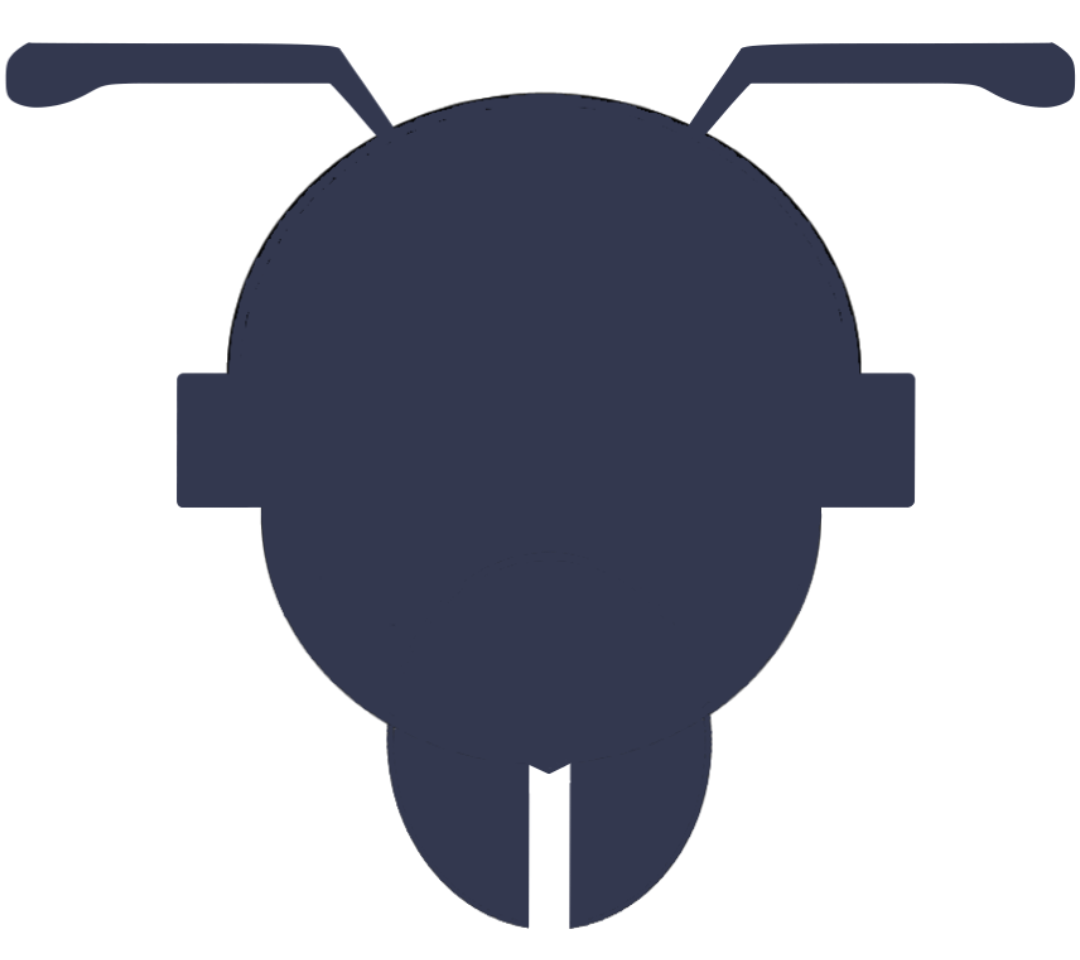
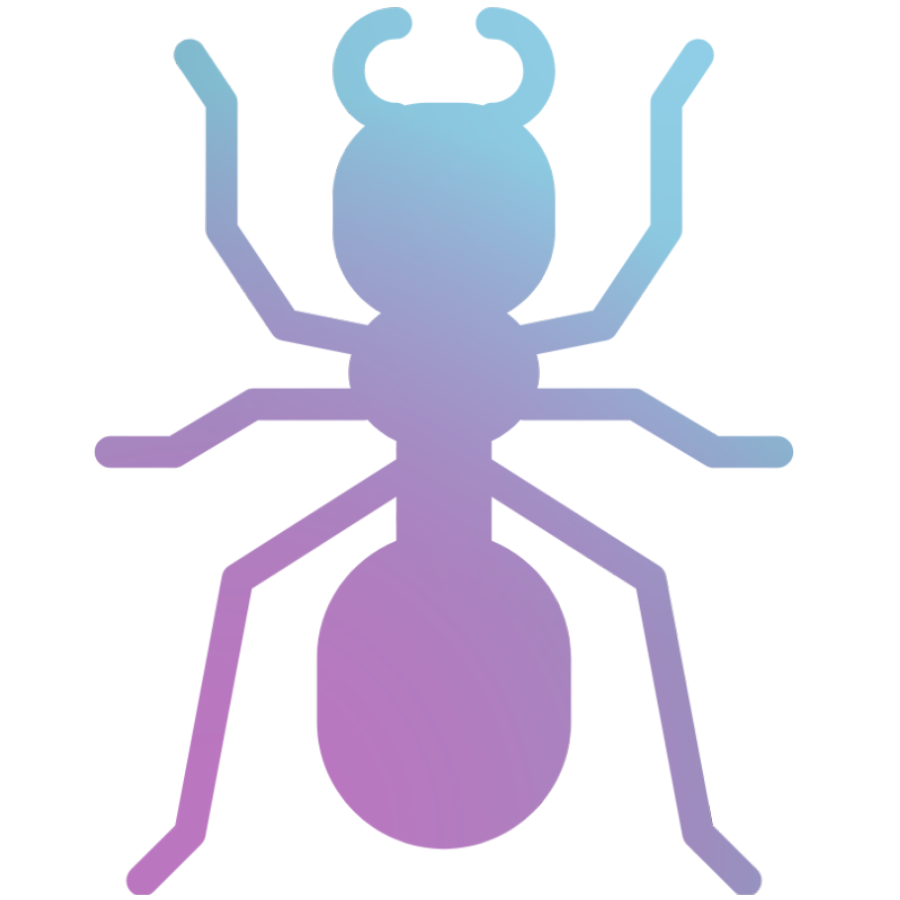
11-28-2023
Login Art Update
Signup BG Update
Icon Update

diff --git a/includes/login.php b/includes/login.php
@@ -1,4 +1,4 @@
-<body class="bg-primary" style="background-color: #306c76;">
+<body style="background-color: #302d45;">
     <div class="container py-5">
         <div class="row d-flex justify-content-center">
             <div class="col col-xl-8">
@@ -14,7 +14,7 @@
                                     <h6 class="fw-normal pb-2 text-center font" style="letter-spacing: 1px;">Sign into your account</h6>
                                     <?php $login->Login(); ?>
                                     <div class="d-flex justify-content-center">
-                                        <div class="card bg-primary rounded-4">
+                                        <div class="card-container">
                                             <div class="card-body">
                                                 <div class="mb-4 font">
                                                     <input type="text" name="username" id="username" placeholder="Enter Username" class="form-control rounded-3" required />
@@ -23,6 +23,7 @@
                                                 <div class="mb-4 font">
                                                     <input type="password" name="password" id="password" placeholder="Enter Password" class="form-control rounded-3" required />
                                                 </div>
+                                                
                                                 <div class="mb-4 font">
                                                     <select class="form-control form-control-sm rounded-3" id="branch" name="branch" required>
                                                         <option value="0" class="text-muted">Select Branch</option>
@@ -31,13 +32,13 @@
                                                         <option value="3">Branch 3</option>
                                                     </select>
                                                 </div>
+
                                                 <div class="pt-1 mb-3 font col-lg-9 d-flex justify-content-center mx-auto">
                                                     <button class="btn btn-light w-100 shadow rounded-5" name="submit" type="submit">Login</button>
                                                 </div>
                                             </div>
                                         </div>
                                     </div>
-
                                     <p class="text-white text-center pb-5" style="font-size: 14px;">Don't have an account? <a href="includes/signup.php" class="text-white">Register here</a></p>
 
                                 </form>

diff --git a/index.php b/index.php
@@ -16,12 +16,18 @@
     <meta http-equiv="X-UA-Compatible" content="IE=edge">
     <meta name="viewport" content="width=device-width, initial-scale=1.0">
     <title>Login | Langgam Trading</title>
-    <link rel="icon" href="assets/icon.png" type="image/png">
+    <link rel="icon" href="/assets/icon.png" type="image/png">
 
     <style>
     .card-bg {
-        background: url('assets/BG1.png') no-repeat center center;
+        background: url('assets/newbg.png') no-repeat center center;
         background-size: cover;
+    }
+
+    .card-container {
+        background-color: rgba(33, 31, 48, 0.5); /* Set the background color with 50% opacity */
+        padding: 15px;
+        border-radius: 10px;
     }
     </style>
 </head>

diff --git a/branch1/includes/signup.php b/branch1/includes/signup.php
@@ -14,10 +14,11 @@ require_once('../../includes/storeclass.php');
   <link rel="stylesheet" href="/langgamtrading/css/main.css">
   <link href='https://unpkg.com/boxicons@2.1.4/css/boxicons.min.css' rel='stylesheet'>
   <script src="/langgamtrading/node_modules/bootstrap/dist/js/bootstrap.bundle.min.js"></script>
+  <link rel="icon" href="../../assets/icon.png" type="image/png">
   <title>Sign Up | Langgam Trading</title>
 </head>
 
-<body style="background-color: lightgray;">
+<body style="background-color: #302d45;">
   <div class="pt-1 m-2">
     <?php include('../../includes/header.php'); ?>
   </div>

diff --git a/branch2/includes/signup.php b/branch2/includes/signup.php
@@ -14,10 +14,11 @@ require_once('../../includes/storeclass.php');
   <link rel="stylesheet" href="/langgamtrading/css/main.css">
   <link href='https://unpkg.com/boxicons@2.1.4/css/boxicons.min.css' rel='stylesheet'>
   <script src="/langgamtrading/node_modules/bootstrap/dist/js/bootstrap.bundle.min.js"></script>
+  <link rel="icon" href="../../assets/icon.png" type="image/png">
   <title>Sign Up | Langgam Trading</title>
 </head>
 
-<body style="background-color: lightgray;">
+<body style="background-color: #302d45;">
   <div class="pt-1 m-2">
     <?php include('../../includes/header.php'); ?>
   </div>

diff --git a/branch3/includes/signup.php b/branch3/includes/signup.php
@@ -14,10 +14,11 @@ require_once('../../includes/storeclass.php');
   <link rel="stylesheet" href="/langgamtrading/css/main.css">
   <link href='https://unpkg.com/boxicons@2.1.4/css/boxicons.min.css' rel='stylesheet'>
   <script src="/langgamtrading/node_modules/bootstrap/dist/js/bootstrap.bundle.min.js"></script>
+  <link rel="icon" href="../../assets/icon.png" type="image/png">
   <title>Sign Up | Langgam Trading</title>
 </head>
 
-<body style="background-color: lightgray;">
+<body style="background-color: #302d45;">
   <div class="pt-1 m-2">
     <?php include('../../includes/header.php'); ?>
   </div>

diff --git a/includes/signup.php b/includes/signup.php
@@ -15,10 +15,11 @@ require_once('storeclass.php');
     <link rel="stylesheet" href="../css/main.css">
     <link href='https://unpkg.com/boxicons@2.1.4/css/boxicons.min.css' rel='stylesheet'>
     <script src="../node_modules/bootstrap/dist/js/bootstrap.bundle.min.js"></script>
+    <link rel="icon" href="../assets/icon.png" type="image/png">
     <title>Sign Up | Langgam Trading</title>
 </head>
 
-<body style="background-color: lightgray;">
+<body style="background-color: #302d45;">
     <div class="pt-1 m-2 pb-5">
         <?php include('header.php'); ?>
     </div>
